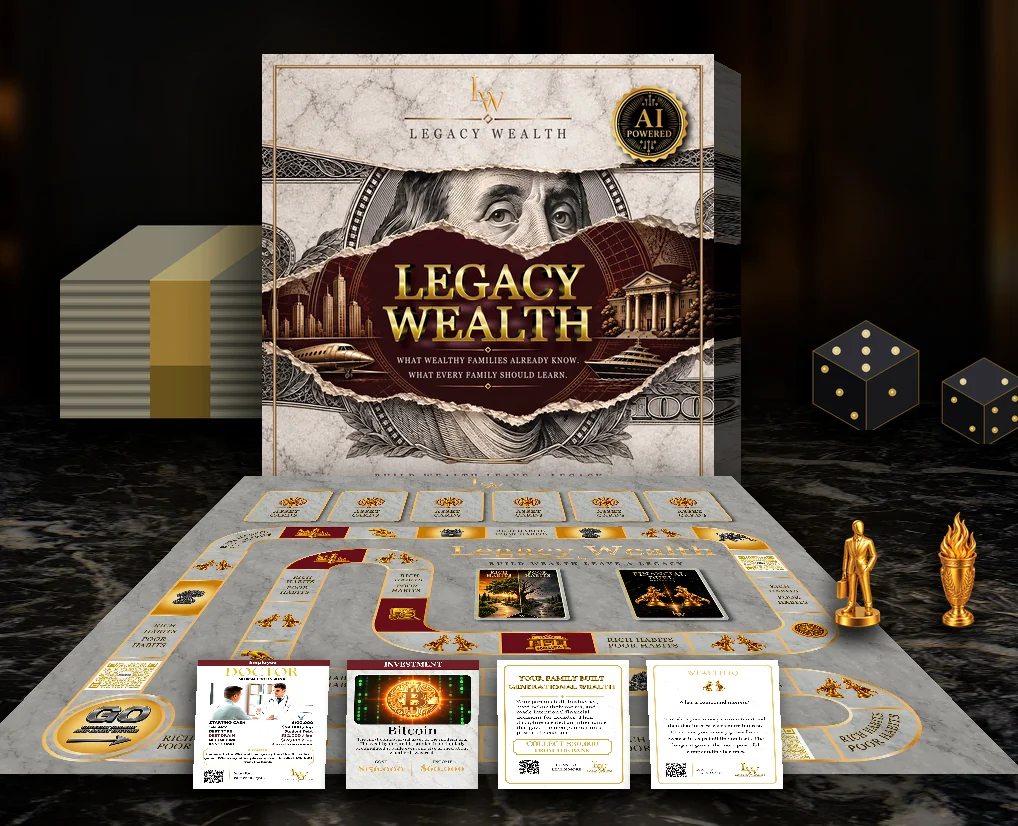
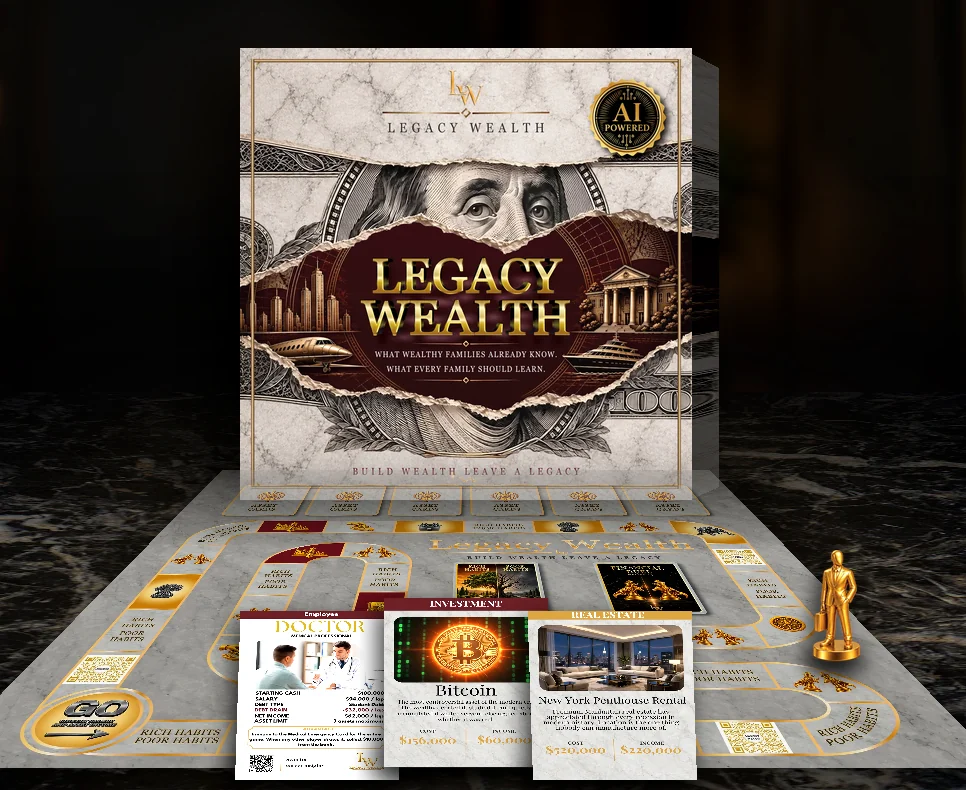
Rebuild the hero: one box, a partial board, three cards, one piece
Rebuilt from scratch against the new art direction. The old shot held five
cards, six board rows, dice, a money stack and two pieces, which is what made
it read as a collage.

What is in it now, and nothing else: the box standing at the back as the
single focal point; a partial reveal of the board, its far half dissolved
into an alpha ramp so it supports the box instead of competing with it; three
cards chosen because they survive being small (Doctor for the maroon header
and photo, Bitcoin for the glowing coin on black, NY Penthouse for the gold
header); one player piece. No dice, no money stack, and the drawn props that
made them are deleted.

No Rich Habits or Wealth IQ card in the hero. All eight are cream marble with
black text and no imagery; at the size a hero card occupies on a phone they
read as blank pale rectangles next to the Bitcoin card. They stay in the
showcase section below, where they are big enough to read.

Built as a rendered composite rather than the CSS layering the brief asked
for. CSS can tilt a flat image but cannot warp the board into a real
trapezoid, so the partial reveal came out as a strip of stretched texture,
and no layer can cast a shadow onto another. The layered version is in this
branch's history at the previous commit if it is worth another look.

Phone gets a tighter crop of the same scene. Everything through "See How It
Plays" lands in the first screen: 838 of 844 at 390x844, and the button
[…]

diff --git a/index.html b/index.html
@@ -233,18 +233,15 @@ a{color:inherit;}
 .form-ok p{font-size:15px;line-height:1.7;color:var(--paper-dim);margin:0;}
 
 /* ---- the box, built in CSS from the flat cover art --------------------- */
-/* ---- the staged set, one image ----------------------------------------- */
-.stage{position:relative;display:grid;place-items:center;padding:0;}
-/* the shot carries its own room, so its edges are faded into the hero's
-   rather than left as a rectangle sitting on top of it */
+/* ---- the staged set, one rendered shot ---------------------------------- */
 .set{width:min(128%,780px);height:auto;margin-right:-8%;
   animation:setIn .9s cubic-bezier(.2,.7,.25,1) both;
   -webkit-mask-image:
-    linear-gradient(180deg,transparent 0,#000 6%,#000 88%,transparent 100%),
+    linear-gradient(180deg,transparent 0,#000 6%,#000 90%,transparent 100%),
     linear-gradient(90deg,transparent 0,#000 6%,#000 94%,transparent 100%);
   -webkit-mask-composite:source-in;
   mask-image:
-    linear-gradient(180deg,transparent 0,#000 6%,#000 88%,transparent 100%),
+    linear-gradient(180deg,transparent 0,#000 6%,#000 90%,transparent 100%),
     linear-gradient(90deg,transparent 0,#000 6%,#000 94%,transparent 100%);
   mask-composite:intersect;}
 @keyframes setIn{from{opacity:0;transform:translateY(16px) scale(.985);}to{opacity:1;}}
@@ -257,11 +254,12 @@ a{color:inherit;}
   .hero-sub{margin-left:auto;margin-right:auto;}
   .cta-note{justify-content:center;}
   .jump{margin-left:auto;margin-right:auto;}
-  .stage{order:-1;}
-  /* break the gutter: the set runs edge to edge, as in the reference */
-  .set{width:100vw;max-width:none;margin-left:calc(50% - 50vw);margin-right:calc(50% - 50vw);
-    -webkit-mask-image:linear-gradient(180deg,#000 90%,transparent 100%);
-    mask-image:linear-gradient(180deg,#000 90%,transparent 100%);}
+  /* the set leads on a phone, and runs edge to edge */
+  /* the picture element is the grid child, so the order lives on it */
+  .hero-grid > picture{order:-1;}
+  .set{width:100vw;max-width:none;margin:0 calc(50% - 50vw);
+    -webkit-mask-image:linear-gradient(180deg,#000 92%,transparent 100%);
+    mask-image:linear-gradient(180deg,#000 92%,transparent 100%);}
   .hero::before{background-position:62% 42%;}
   .hero::after{background:linear-gradient(180deg,rgba(5,5,6,.86) 0%,rgba(5,5,6,.56) 30%,rgba(5,5,6,.80) 74%,rgba(5,5,6,.94) 100%);}
 }
@@ -719,17 +717,15 @@ a{color:inherit;}
         <span class="arw" aria-hidden="true"><svg viewBox="0 0 24 24" fill="none" stroke="currentColor" stroke-width="1.4" stroke-linecap="round" stroke-linejoin="round" aria-hidden="true"><path d="m6 9 6 6 6-6"/></svg></span></a>
     </div>
 
-    <div class="stage">
-      <picture>
-        <!-- the wide framing loses the box on a phone, so phones get a
-             tighter crop of the same scene -->
-        <source media="(max-width:940px)" srcset="assets/images/hero-set-tall.webp"
-                width="1018" height="826">
-        <img class="set" src="assets/images/hero-set.webp"
-             alt="The Legacy Wealth set: the box, the board laid out, the five card decks and the player pieces"
-             width="1512" height="858" fetchpriority="high" decoding="async">
-      </picture>
-    </div>
+    <picture>
+      <!-- the wide framing loses the box on a phone, so phones get a tighter
+           crop of the same scene -->
+      <source media="(max-width:940px)" srcset="assets/images/hero-set-tall.webp"
+              width="966" height="790">
+      <img class="set" src="assets/images/hero-set.webp"
+           alt="The Legacy Wealth box standing behind the board, with the Doctor, Bitcoin and New York Penthouse cards dealt in front and a player piece beside them"
+           width="1448" height="814" fetchpriority="high" decoding="async">
+    </picture>
   </section>
 
 <!-- ==================== THE RACE TO $1 MILLION ==================== -->

diff --git a/tools/scene.py b/tools/scene.py
@@ -8,7 +8,7 @@ the desktop crop just shows more of the table around it.
 Layers, back to front:
     room (blurred study)  ->  marble table  ->  money stack and dice, set
     back beside the box   ->  box, standing  ->  board, laid into the table
-    ->  four cards along the near edge  ->  two player pieces at the right
+    ->  three cards along the near edge  ->  one player piece at the right
 
 Run:  python3 tools/props.py && python3 tools/scene.py
 """
@@ -16,7 +16,6 @@ import sys, os
 sys.path.insert(0, os.path.dirname(os.path.abspath(__file__)))
 from PIL import Image, ImageDraw, ImageFilter, ImageEnhance, ImageChops
 from stage import warp, place, shadow, vgrad, over, A, W as _W
-from props import die, money_stack
 
 W, H = 1600, 1050
 OUT = os.path.join(os.path.dirname(os.path.abspath(__file__)), '..', 'assets', 'images')
@@ -56,22 +55,6 @@ pool = blank()
 ImageDraw.Draw(pool).ellipse([W * .16, HORIZON - 30, W * .84, H * .94], fill=(122, 94, 46, 54))
 canvas = over(canvas, pool.filter(ImageFilter.GaussianBlur(120)))
 
-# --------------------------------------------- 3. money and dice, set behind
-stack = money_stack(300)
-sx, sy = 372, 452 - stack.height
-s_lay = blank(); s_lay.alpha_composite(ImageEnhance.Brightness(stack).enhance(0.74), (sx, sy))
-canvas = over(canvas,
-              ground(sx - 16, 452 - 26, sx + stack.width + 16, 452 + 22, 190, 20),
-              shadow(s_lay, 16, .70, -16, 10), s_lay)
-
-for dsize, dx, dy, faces in ((132, 1112, 330, ((2, 5), 3, 1)),
-                             (104, 1244, 372, ((2, 2), 2, 4))):
-    dd = die(dsize, top=faces[0], left=faces[1], right=faces[2])
-    d_lay = blank(); d_lay.alpha_composite(ImageEnhance.Brightness(dd).enhance(0.92), (dx, dy))
-    canvas = over(canvas,
-                  ground(dx + dsize * .10, dy + dsize * .74, dx + dsize * .90, dy + dsize * .98, 200, 13),
-                  shadow(d_lay, 12, .66, -12, 8), d_lay)
-
 # ------------------------------------------------------------------- 4. box
 box = Image.open(A + 'box-cover.webp')
 BW = 452
@@ -96,34 +79,41 @@ canvas = over(canvas, refl,
 board = Image.open(A + 'board-mat.webp')
 BOARD = [(556, 508), (1044, 508), (1338, 806), (262, 806)]
 b_lay = warp(board, BOARD, SZ)
+# partial reveal: the far half dissolves, so the board supports the box
+# instead of competing with it
+fade = Image.new('L', SZ, 255)
+ImageDraw.Draw(fade).rectangle([0, 0, W, 470], fill=0)
+for i in range(120):
+    ImageDraw.Draw(fade).rectangle([0, 470 + i, W, 470 + i + 1], fill=int(255 * i / 120))
+b_lay.putalpha(ImageChops.multiply(b_lay.split()[3], fade))
 b_lay = ImageEnhance.Contrast(ImageEnhance.Color(
     ImageEnhance.Brightness(b_lay).enhance(0.86)).enhance(1.22)).enhance(1.10)
 canvas = over(canvas, shadow(b_lay, 24, .78, 0, 14), b_lay)
 
 # ----------------------------------------------- 6. one card from each deck
 CARDS = ['cards/career-doctor.webp', 'cards/asset-bitcoin.webp',
-         'cards/habit-rich-generational.webp', 'cards/iq-compound-interest.webp']
-cw, gap = 132, 14
-x0 = (W - (len(CARDS) * cw + (len(CARDS) - 1) * gap)) // 2
+         'cards/asset-penthouse.webp']
+cw = 164
+overlap = 26
+x0 = (W - (len(CARDS) * cw - (len(CARDS) - 1) * overlap)) // 2
 for i, f in enumerate(CARDS):
     c = Image.open(A + f)
-    x = x0 + i * (cw + gap)
-    ch = int(cw * c.height / c.width * 0.70)
-    y = 692
-    lean = (i - 1.5) * 7
+    x = x0 + i * (cw - overlap)
+    ch = int(cw * c.height / c.width * 0.74)
+    y = 636 + (0 if i == 1 else 13)          # centre card stands a little proud
+    lean = (i - 1) * 11
     cl = warp(c, [(x + lean * .5, y), (x + cw + lean * .5, y),
                   (x + cw + lean, y + ch), (x + lean, y + ch)], SZ)
-    cl = ImageEnhance.Contrast(ImageEnhance.Brightness(cl).enhance(1.02)).enhance(1.18)
+    cl = ImageEnhance.Contrast(ImageEnhance.Brightness(cl).enhance(1.02)).enhance(1.16)
     canvas = over(canvas,
-                  ground(x + lean - 12, y + ch - 16, x + cw + lean + 12, y + ch + 15, 200, 13),
-                  shadow(cl, 11, .78, -5, 8), cl)
+                  ground(x + lean - 14, y + ch - 18, x + cw + lean + 14, y + ch + 16, 205, 14),
+                  shadow(cl, 12, .80, -6, 9), cl)
 
 # --------------------------------------------------------- 7. player pieces
-for f, ph, px in (('tokens/token-businessman.webp', 108, 1146),
-                  ('tokens/token-torch.webp', 116, 1250)):
+for f, ph, px in (('tokens/token-businessman.webp', 112, 1146),):
     t = Image.open(A + f)
     pw = int(ph * t.width / t.height)
-    py = 660 - ph
+    py = 700 - ph
     t_lay = place(t, (px, py, pw, ph), SZ)
     canvas = over(canvas,
                   ground(px - 5, py + ph - 13, px + pw + 5, py + ph + 13, 200, 10),
@@ -140,8 +130,8 @@ canvas = over(canvas, dark)
 
 # ------------------------------------------------------------------ 9. crops
 # phone first: the tight frame is the one the composition was built for
-tall = canvas.crop((312, 32, 1330, 858))
-wide = canvas.crop((44, 22, W - 44, 880))
+tall = canvas.crop((334, 38, 1300, 828))
+wide = canvas.crop((76, 30, W - 76, 844))
 for im, name in ((tall, 'hero-set-tall'), (wide, 'hero-set')):
     im.convert('RGB').save(os.path.join(OUT, name + '.webp'), 'WEBP', quality=86, method=6)
     im.convert('RGB').save(PREV + name + '.png')
